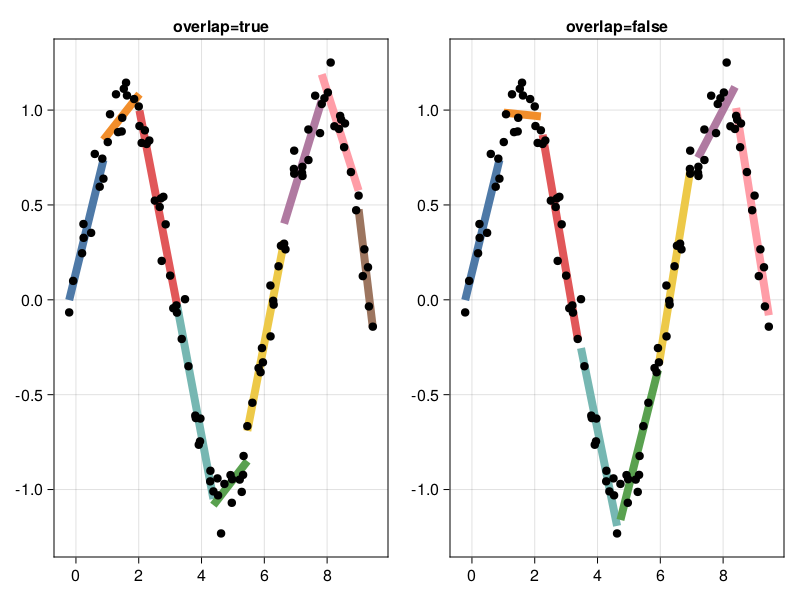
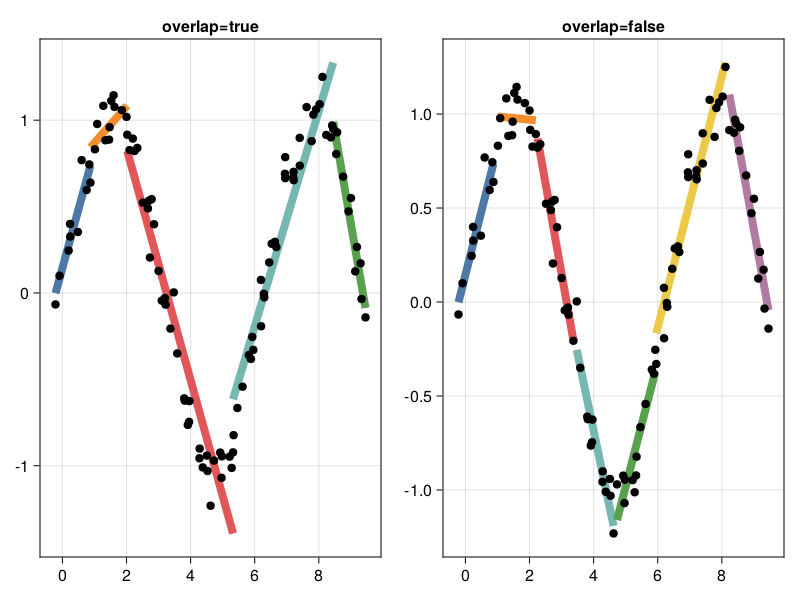
add r2 to topdown

diff --git a/README.md b/README.md
@@ -17,24 +17,27 @@ plotting easier.
 ```julia
 using LinearSegmentation
 
-segments, glm_fits = segmentation_function(
+segments = segmentation_function(
     x_values, 
     y_values; 
     min_segment_length = minimum_segment_x_length, 
-    max_rmse = maximum_root_mean_squared_error,
+    fit_threshold = minimum_r2,
+    fit_function = :r2,
     overlap = true,
 )
 ```
-Where each `segment` in `segments` is a type of `LinearSegmentation.Segment`,
-which contains all the indices of `x_values` used in the `segment`.
-Corresponding to each `segment` is a `GLM.LinearModel` (see
+Where each entry in `segments` is a tuple of indices of `x_values` used in the
+segment, and a `GLM.LinearModel` (see
 [GLM.jl](https://github.com/JuliaStats/GLM.jl)), which is the fitted linear
-model to the `segment`. Minimum segment lengths are specified with
-`min_segment_length` and maximum allowed root mean square error for a segment is
-set with `max_rmse`. Both of these kwargs have large effects on the segmentation
---- play around to see what works best for your data. By default, the end of a
-segment is also the start of the next segment, but this can be changed by
-setting `overlap` to `false` (resulting in disjoint segmentations).
+model to that segment. Minimum segment lengths are specified with
+`min_segment_length`. By default, the goodness-of-fit is measured using the
+coefficient of determination. Each segment must have a minimum R² of
+`fit_threshold`. Root mean squared error can also be used by setting
+`fit_function = :rmse`, and adjusting `fit_threshold` to a dataset dependent
+error threshold. In this case, the root mean squared error must be smaller than
+`fit_threshold` for each segment. By default, the end of a segment is also the
+start of the next segment, but this can be changed by setting `overlap` to
+`false` (resulting in disjoint segmentations).
 
 ## Generate some data
 ```julia
@@ -45,17 +48,17 @@ ys = sin.(xs) .+ 0.1 .* randn(N)
 ![Raw data to be segmented](imgs/data.png)
 
 ## Sliding window
-Initially an empty segment is made, and a "window" slides along the x-axis, with
-data points added to this segment until the fit error reaches `max_rmse`. Then a
-new segment is created, and the process repeats until the dataset is finished.
-This algorithm is the cheapest to run, but may generate worse fits due to its
+Uses a sliding window approach to segment the data: initially an empty segment
+is made, and data added to it until `fit_threshold` is reached. Then a new
+segment is made, and the process repeats until the data is exhausted. This
+algorithm is the cheapest to run, but may generate worse fits due to its
 simplicity.
 ```julia
-segs, fits = sliding_window(xs, ys; min_segment_length=1.2, max_rmse=0.15)
+segments = sliding_window(xs, ys; min_segment_length=1.2)
 
 using CairoMakie
 # skipped some plotting steps
-for (i, (_xs, _ys)) in enumerate(xygroups(segs, fits, xs))
+for (i, (_xs, _ys)) in enumerate(xygroups(segments, xs))
     lines!(ax, _xs, _ys; color=ColorSchemes.tableau_10[i], linewidth=8)
 end
 ```
